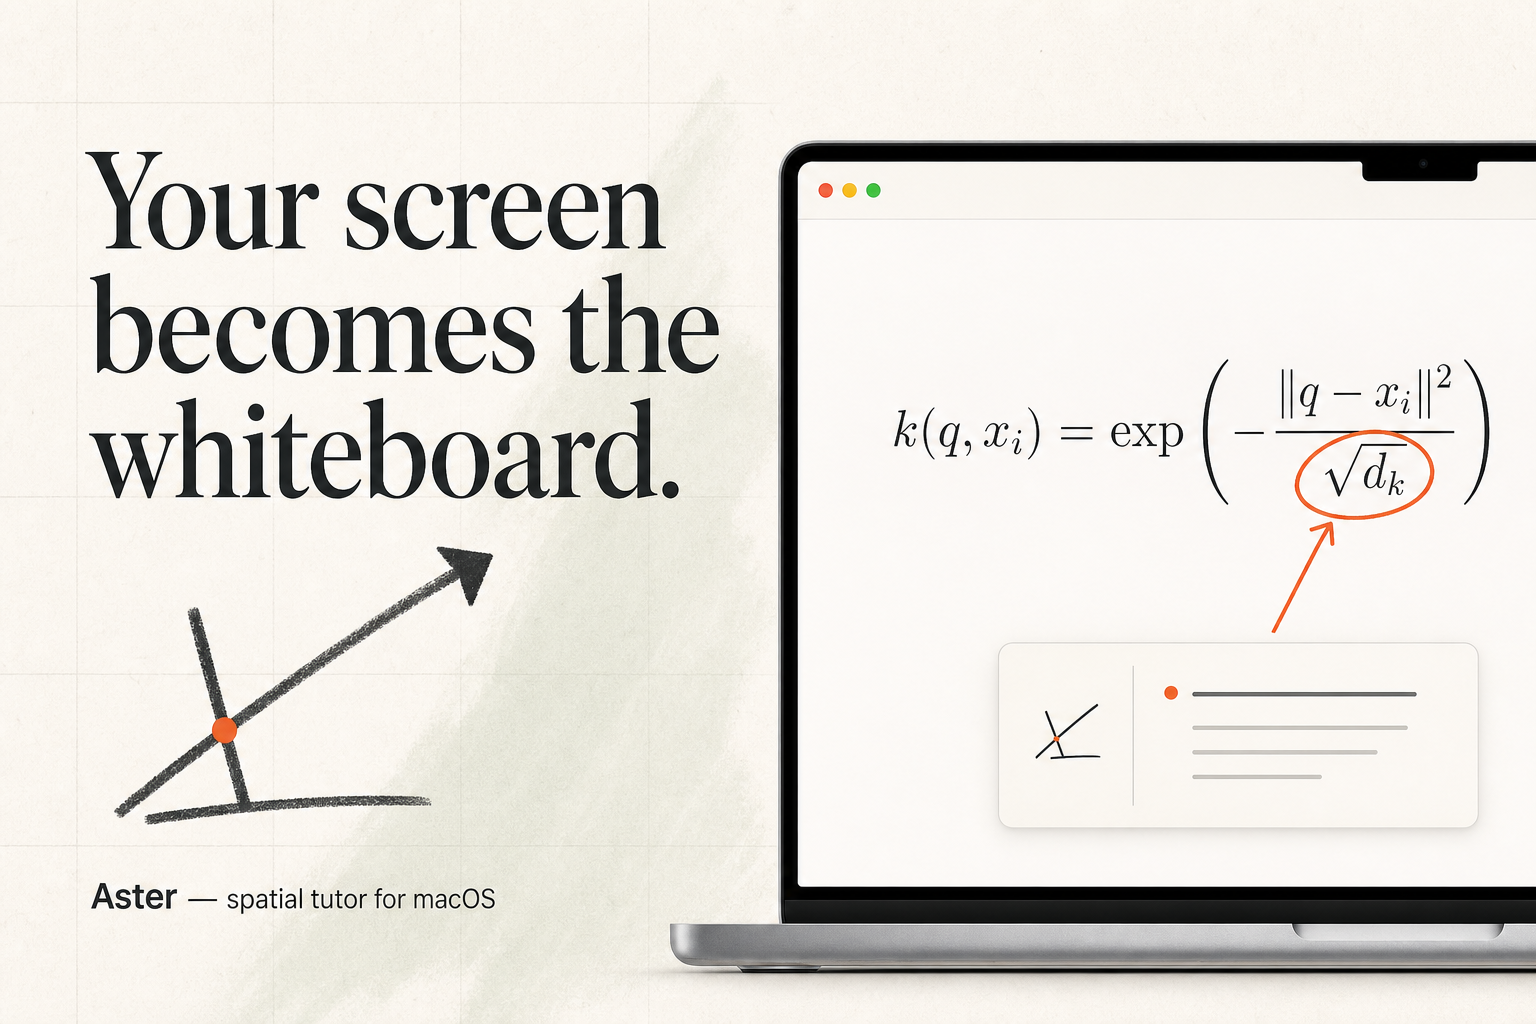
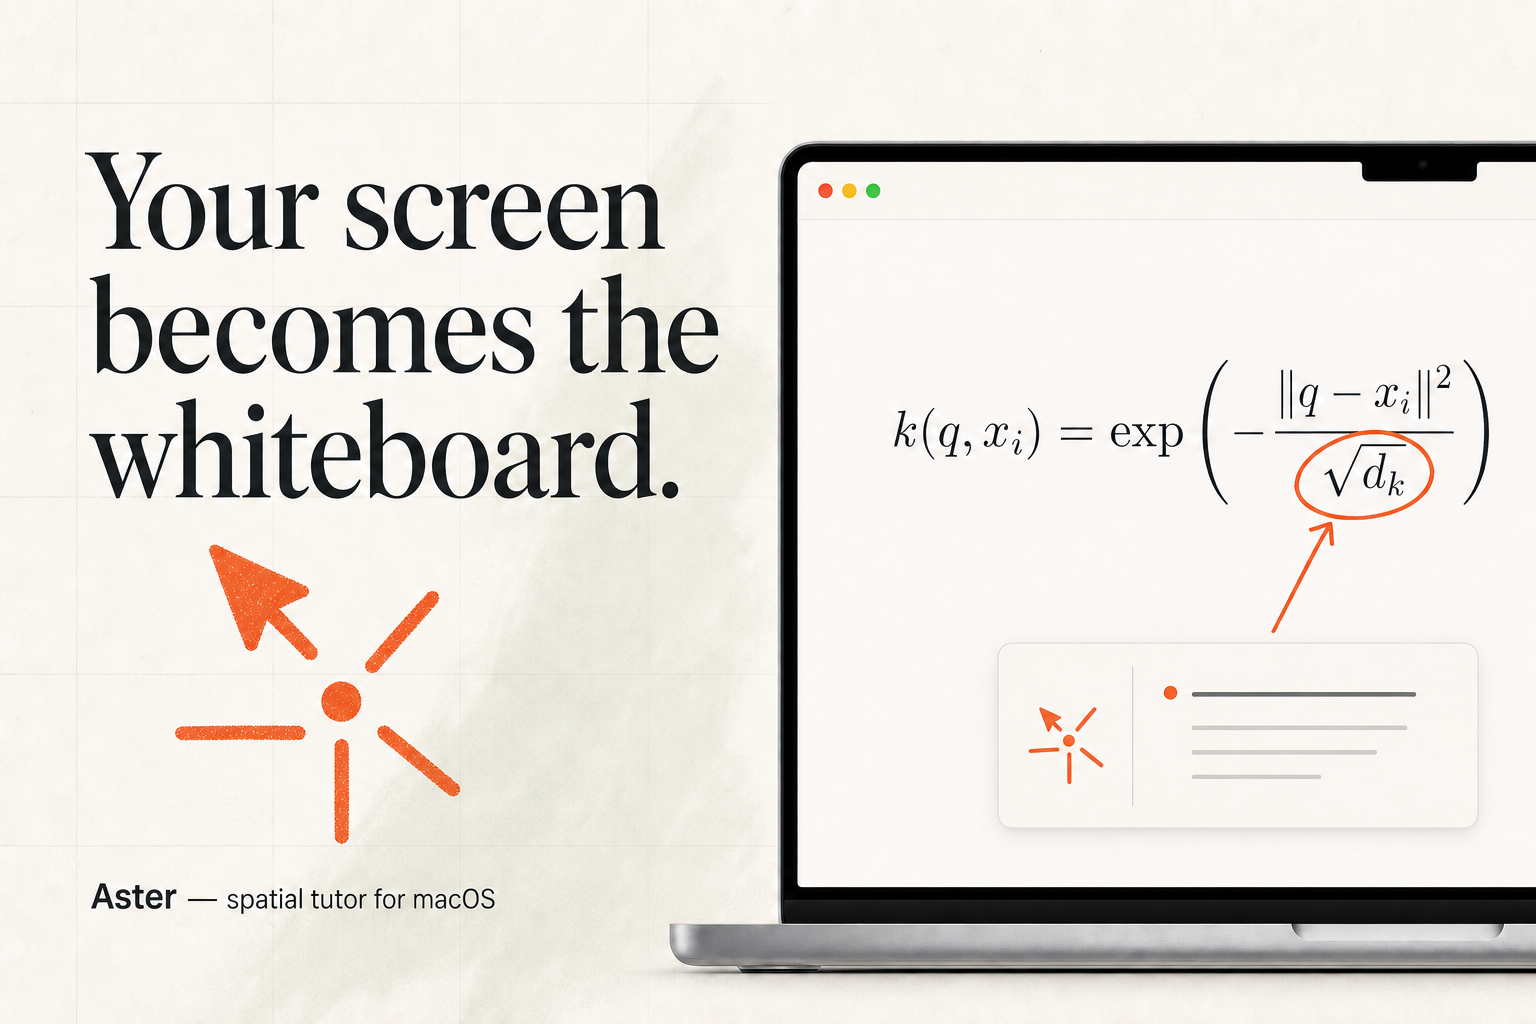
Refine Aster cursor asterisk

diff --git a/macos/Sources/Aster/AsterGlyphRenderer.swift b/macos/Sources/Aster/AsterGlyphRenderer.swift
@@ -11,37 +11,31 @@ enum AsterGlyphRenderer {
         color.withAlphaComponent(alpha).setStroke()
         color.withAlphaComponent(alpha).setFill()
 
-        let underline = NSBezierPath()
-        underline.lineWidth = 3.2 * scale
-        underline.lineCapStyle = .round
-        underline.move(to: NSPoint(x: x + 5 * scale, y: y + 8 * scale))
-        underline.curve(
-            to: NSPoint(x: x + 27 * scale, y: y + 12 * scale),
-            controlPoint1: NSPoint(x: x + 10 * scale, y: y + 5 * scale),
-            controlPoint2: NSPoint(x: x + 20 * scale, y: y + 6.2 * scale)
-        )
-        underline.stroke()
+        let cursor = NSBezierPath()
+        cursor.move(to: NSPoint(x: x + 3 * scale, y: y + 29 * scale))
+        cursor.line(to: NSPoint(x: x + 6.2 * scale, y: y + 16.8 * scale))
+        cursor.line(to: NSPoint(x: x + 9 * scale, y: y + 20.1 * scale))
+        cursor.line(to: NSPoint(x: x + 14.2 * scale, y: y + 14.9 * scale))
+        cursor.line(to: NSPoint(x: x + 16.7 * scale, y: y + 17.4 * scale))
+        cursor.line(to: NSPoint(x: x + 11.5 * scale, y: y + 22.6 * scale))
+        cursor.line(to: NSPoint(x: x + 15.2 * scale, y: y + 25.7 * scale))
+        cursor.close()
+        cursor.fill()
 
-        let cursorArm = NSBezierPath()
-        cursorArm.lineWidth = 3.2 * scale
-        cursorArm.lineCapStyle = .round
-        cursorArm.lineJoinStyle = .round
-        cursorArm.move(to: NSPoint(x: x + 7 * scale, y: y + 11 * scale))
-        cursorArm.line(to: NSPoint(x: x + 24 * scale, y: y + 27 * scale))
-        cursorArm.move(to: NSPoint(x: x + 24 * scale, y: y + 27 * scale))
-        cursorArm.line(to: NSPoint(x: x + 16.5 * scale, y: y + 25.5 * scale))
-        cursorArm.move(to: NSPoint(x: x + 24 * scale, y: y + 27 * scale))
-        cursorArm.line(to: NSPoint(x: x + 22.5 * scale, y: y + 19.5 * scale))
-        cursorArm.stroke()
+        let rays = NSBezierPath()
+        rays.lineWidth = 3.2 * scale
+        rays.lineCapStyle = .round
+        rays.move(to: NSPoint(x: x + 23 * scale, y: y + 19 * scale))
+        rays.line(to: NSPoint(x: x + 29 * scale, y: y + 25 * scale))
+        rays.move(to: NSPoint(x: x + 23 * scale, y: y + 9 * scale))
+        rays.line(to: NSPoint(x: x + 29 * scale, y: y + 4 * scale))
+        rays.move(to: NSPoint(x: x + 18 * scale, y: y + 8 * scale))
+        rays.line(to: NSPoint(x: x + 18 * scale, y: y + 2 * scale))
+        rays.move(to: NSPoint(x: x + 13 * scale, y: y + 13 * scale))
+        rays.line(to: NSPoint(x: x + 3 * scale, y: y + 13 * scale))
+        rays.stroke()
 
-        let shortArm = NSBezierPath()
-        shortArm.lineWidth = 3.2 * scale
-        shortArm.lineCapStyle = .round
-        shortArm.move(to: NSPoint(x: x + 6 * scale, y: y + 24 * scale))
-        shortArm.line(to: NSPoint(x: x + 20 * scale, y: y + 17 * scale))
-        shortArm.stroke()
-
-        NSBezierPath(ovalIn: NSRect(x: x + 23.5 * scale, y: y + 4.5 * scale, width: 5 * scale, height: 5 * scale)).fill()
+        NSBezierPath(ovalIn: NSRect(x: x + 15.2 * scale, y: y + 10.2 * scale, width: 5.6 * scale, height: 5.6 * scale)).fill()
     }
 
     static func menuBarImage() -> NSImage {

diff --git a/macos/Sources/Aster/Views.swift b/macos/Sources/Aster/Views.swift
@@ -13,30 +13,29 @@ struct AsterMark: View {
             let scale = min(canvasSize.width, canvasSize.height) / 32
             let stroke = StrokeStyle(lineWidth: 3.2 * scale, lineCap: .round, lineJoin: .round)
 
-            var underline = Path()
-            underline.move(to: CGPoint(x: 5 * scale, y: 24 * scale))
-            underline.addCurve(
-                to: CGPoint(x: 27 * scale, y: 20 * scale),
-                control1: CGPoint(x: 10 * scale, y: 27 * scale),
-                control2: CGPoint(x: 20 * scale, y: 25.8 * scale)
-            )
-            context.stroke(underline, with: .color(signal), style: stroke)
+            var cursor = Path()
+            cursor.move(to: CGPoint(x: 3 * scale, y: 3 * scale))
+            cursor.addLine(to: CGPoint(x: 6.2 * scale, y: 15.2 * scale))
+            cursor.addLine(to: CGPoint(x: 9 * scale, y: 11.9 * scale))
+            cursor.addLine(to: CGPoint(x: 14.2 * scale, y: 17.1 * scale))
+            cursor.addLine(to: CGPoint(x: 16.7 * scale, y: 14.6 * scale))
+            cursor.addLine(to: CGPoint(x: 11.5 * scale, y: 9.4 * scale))
+            cursor.addLine(to: CGPoint(x: 15.2 * scale, y: 6.3 * scale))
+            cursor.closeSubpath()
+            context.fill(cursor, with: .color(signal))
 
-            var cursorArm = Path()
-            cursorArm.move(to: CGPoint(x: 7 * scale, y: 21 * scale))
-            cursorArm.addLine(to: CGPoint(x: 24 * scale, y: 5 * scale))
-            cursorArm.move(to: CGPoint(x: 24 * scale, y: 5 * scale))
-            cursorArm.addLine(to: CGPoint(x: 16.5 * scale, y: 6.5 * scale))
-            cursorArm.move(to: CGPoint(x: 24 * scale, y: 5 * scale))
-            cursorArm.addLine(to: CGPoint(x: 22.5 * scale, y: 12.5 * scale))
-            context.stroke(cursorArm, with: .color(signal), style: stroke)
+            var rays = Path()
+            rays.move(to: CGPoint(x: 23 * scale, y: 13 * scale))
+            rays.addLine(to: CGPoint(x: 29 * scale, y: 7 * scale))
+            rays.move(to: CGPoint(x: 23 * scale, y: 23 * scale))
+            rays.addLine(to: CGPoint(x: 29 * scale, y: 28 * scale))
+            rays.move(to: CGPoint(x: 18 * scale, y: 24 * scale))
+            rays.addLine(to: CGPoint(x: 18 * scale, y: 30 * scale))
+            rays.move(to: CGPoint(x: 13 * scale, y: 19 * scale))
+            rays.addLine(to: CGPoint(x: 3 * scale, y: 19 * scale))
+            context.stroke(rays, with: .color(signal), style: stroke)
 
-            var shortArm = Path()
-            shortArm.move(to: CGPoint(x: 6 * scale, y: 8 * scale))
-            shortArm.addLine(to: CGPoint(x: 20 * scale, y: 15 * scale))
-            context.stroke(shortArm, with: .color(signal), style: stroke)
-
-            let dot = CGRect(x: 23.5 * scale, y: 22.5 * scale, width: 5 * scale, height: 5 * scale)
+            let dot = CGRect(x: 15.2 * scale, y: 16.2 * scale, width: 5.6 * scale, height: 5.6 * scale)
             context.fill(Path(ellipseIn: dot), with: .color(signal))
         }
         .frame(width: size, height: size)

diff --git a/app/page.tsx b/app/page.tsx
@@ -87,10 +87,12 @@ function AsterMark() {
   return (
     <span className="aster-mark" aria-hidden="true">
       <svg viewBox="0 0 32 32" fill="none">
-        <path d="M5 24C10 27 20 25.8 27 20" />
-        <path d="M7 21L24 5M24 5L16.5 6.5M24 5L22.5 12.5" />
-        <path d="M6 8L20 15" />
-        <circle cx="26" cy="25" r="2.5" />
+        <path className="cursor-ray" d="M3 3L6.2 15.2L9 11.9L14.2 17.1L16.7 14.6L11.5 9.4L15.2 6.3L3 3Z" />
+        <path d="M23 13L29 7" />
+        <path d="M23 23L29 28" />
+        <path d="M18 24L18 30" />
+        <path d="M13 19L3 19" />
+        <circle cx="18" cy="19" r="2.8" />
       </svg>
     </span>
   );

diff --git a/macos/Sources/Aster/ToolActionService.swift b/macos/Sources/Aster/ToolActionService.swift
@@ -210,12 +210,12 @@ final class ToolActionService {
         <style>
         *{box-sizing:border-box}body{margin:0;background:#f4f3ec;color:#101114;font-family:-apple-system,BlinkMacSystemFont,sans-serif}
         header{height:72px;display:flex;align-items:center;gap:14px;padding:0 24px;border-bottom:1px solid #d9d6cd;background:#faf9f4}
-        .mark{position:relative;width:36px;height:36px;color:#ef5b35}.mark:before{content:"";position:absolute;width:22px;height:3px;left:7px;top:15px;border-radius:99px;background:currentColor;transform:rotate(-48deg)}.mark:after{content:"";position:absolute;width:24px;height:11px;left:5px;top:15px;border-bottom:3px solid currentColor;border-radius:0 0 70% 55%;transform:rotate(7deg)}.mark i{position:absolute;width:6px;height:6px;right:3px;bottom:3px;border-radius:50%;background:currentColor}
+        .mark{width:36px;height:36px;color:#ef5b35}.mark svg{width:100%;height:100%;display:block}.mark .ray{stroke:currentColor;stroke-width:3.1;stroke-linecap:round}.mark .cursor,.mark circle{fill:currentColor}
         h1{margin:0;font-size:16px}p{margin:3px 0 0;color:#6e6e68;font-size:12px}.badge{margin-left:auto;padding:8px 11px;border-radius:9px;background:#ffe3da;color:#a9341d;font-size:10px;font-weight:700}
         #calculator{width:100%;height:calc(100vh - 72px)}
         </style>
         <script src="https://www.desmos.com/api/v1.11/calculator.js?apiKey=desmos"></script></head>
-        <body><header><div class="mark"><i></i></div><div><h1>Aster demonstration sandbox</h1><p id="caption"></p></div><div class="badge">LEARNER-CONTROLLED</div></header><div id="calculator"></div>
+        <body><header><div class="mark"><svg viewBox="0 0 32 32"><path class="cursor" d="M3 3L6.2 15.2L9 11.9L14.2 17.1L16.7 14.6L11.5 9.4L15.2 6.3Z"/><path class="ray" d="M23 13L29 7M23 23L29 28M18 24L18 30M13 19L3 19"/><circle cx="18" cy="19" r="2.8"/></svg></div><div><h1>Aster demonstration sandbox</h1><p id="caption"></p></div><div class="badge">LEARNER-CONTROLLED</div></header><div id="calculator"></div>
         <script>
         document.getElementById('caption').textContent=\(caption);
         const calculator=Desmos.GraphingCalculator(document.getElementById('calculator'),{expressions:true,settingsMenu:false,zoomButtons:true});

diff --git a/app/globals.css b/app/globals.css
@@ -51,6 +51,7 @@ button { cursor: pointer; }
 }
 .aster-mark svg { display: block; width: 100%; height: 100%; overflow: visible; }
 .aster-mark path { stroke: currentColor; stroke-width: 3.1; stroke-linecap: round; stroke-linejoin: round; }
+.aster-mark .cursor-ray { fill: currentColor; stroke: none; }
 .aster-mark circle { fill: currentColor; }
 .brand:hover .aster-mark { transform: rotate(-4deg) scale(1.05); }
 